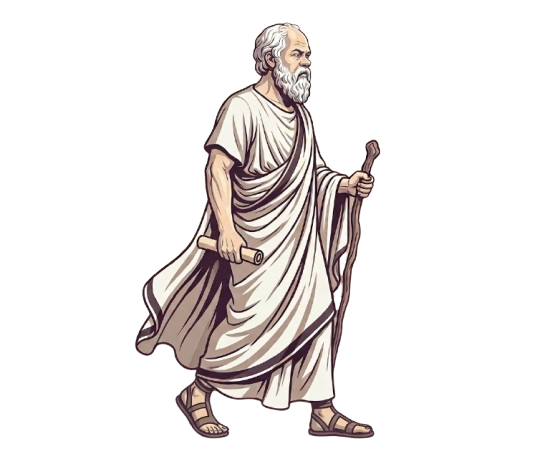
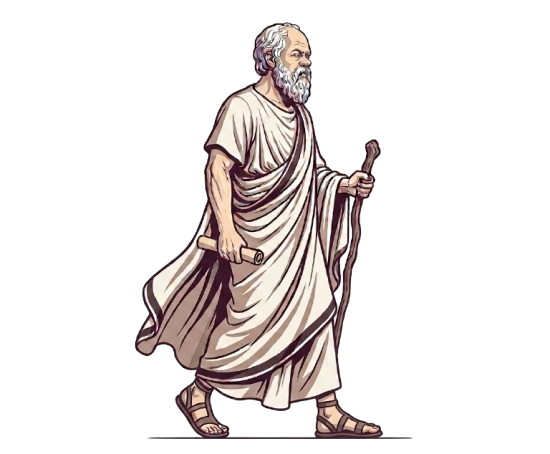
implemented Socrates figure animation and tested in App; imported assets

diff --git a/src/components/ui/Socrates.jsx b/src/components/ui/Socrates.jsx
@@ -1,0 +1,25 @@
+import { useState, useEffect } from 'react'
+import socratesRight from '../assets/socrates-right.png'
+import socratesMid from '../assets/socrates-mid.png'
+import socratesStand from '../assets/socrates-stand.png'
+import './Socrates.css'
+
+const frames = [socratesStand, socratesMid, socratesRight, socratesMid]
+
+export default function Socrates() {
+    const [current, setCurrent] = useState(0)
+
+    useEffect(() => {
+        const interval = setInterval(() => {
+            console.log('frame changing to:', (prev + 1) % frames.length)
+            setCurrent(prev => (prev + 1) % frames.length)
+        }, 300)
+        return () => clearInterval(interval)
+    }, [])
+
+    return (
+        <div className="socrates-walk">
+            <img src={frames[current]} alt="Socrates" className="socrates-frame" />
+        </div>
+    )
+}

diff --git a/src/components/problem/AttemptCard.css b/src/components/problem/AttemptCard.css
@@ -38,7 +38,7 @@
   line-height: 1.7;
 }
 
-.attempt-card__feedback {
+/* .attempt-card__feedback {
   padding: 16px 20px;
   background: #f3f4f6;
   font-size: 14px;
@@ -46,4 +46,21 @@
   line-height: 1.7;
   white-space: pre-wrap;
   border-left: 3px solid var(--color-accent);
+} */
+
+.attempt-card__feedback {
+  display: flex;
+  align-items: flex-start;
+  gap: 12px;
+  margin-top: 12px;
+}
+
+.speech-bubble {
+  flex: 1;
+  background: var(--color-bg);
+  border: 1px solid var(--color-border);
+  border-radius: var(--radius);
+  padding: 12px 16px;
+  font-size: 13px;
+  line-height: 1.6;
 }

diff --git a/src/components/ui/Socrates.css b/src/components/ui/Socrates.css
@@ -1,0 +1,11 @@
+.socrates-walk {
+    width: 80px;
+    height: 110px;
+    flex-shrink: 0;
+}
+
+.socrates-frame {
+    width: 100%;
+    height: 100%;
+    object-fit: contain;
+}

diff --git a/src/components/problem/AttemptCard.jsx b/src/components/problem/AttemptCard.jsx
@@ -11,9 +11,11 @@ export default function AttemptCard({ attempt, index }) {
             <div className="attempt-card__steps">
                 <pre>{attempt.steps}</pre>
             </div>
-            {attempt.feedback && (
+            {attempt.feedback || "What assumptions are you making about the input?" && (
                 <div className="attempt-card__feedback">
-                    {attempt.feedback}
+                    <div className="speech-bubble">
+                        {attempt.feedback || "What assumptions are you making about the input?"}
+                    </div>
                 </div>
             )}
         </div>

diff --git a/src/App.jsx b/src/App.jsx
@@ -3,6 +3,7 @@ import useProblems from './hooks/useProblems.js'
 import StartPage from './components/start/StartPage'
 import ProblemView from "./components/problem/ProblemView"
 import AddProblemModal from "./components/shared/AddProblemModal"
+import Socrates from "./components/ui/Socrates"
 import './App.css'
 
 function App() {
@@ -44,6 +45,8 @@ function App() {
           />
         )
       }
+
+      <Socrates />
 
       {/* if showAddModal is true, show the AddProblemModal component */}
       {showAddModal && (